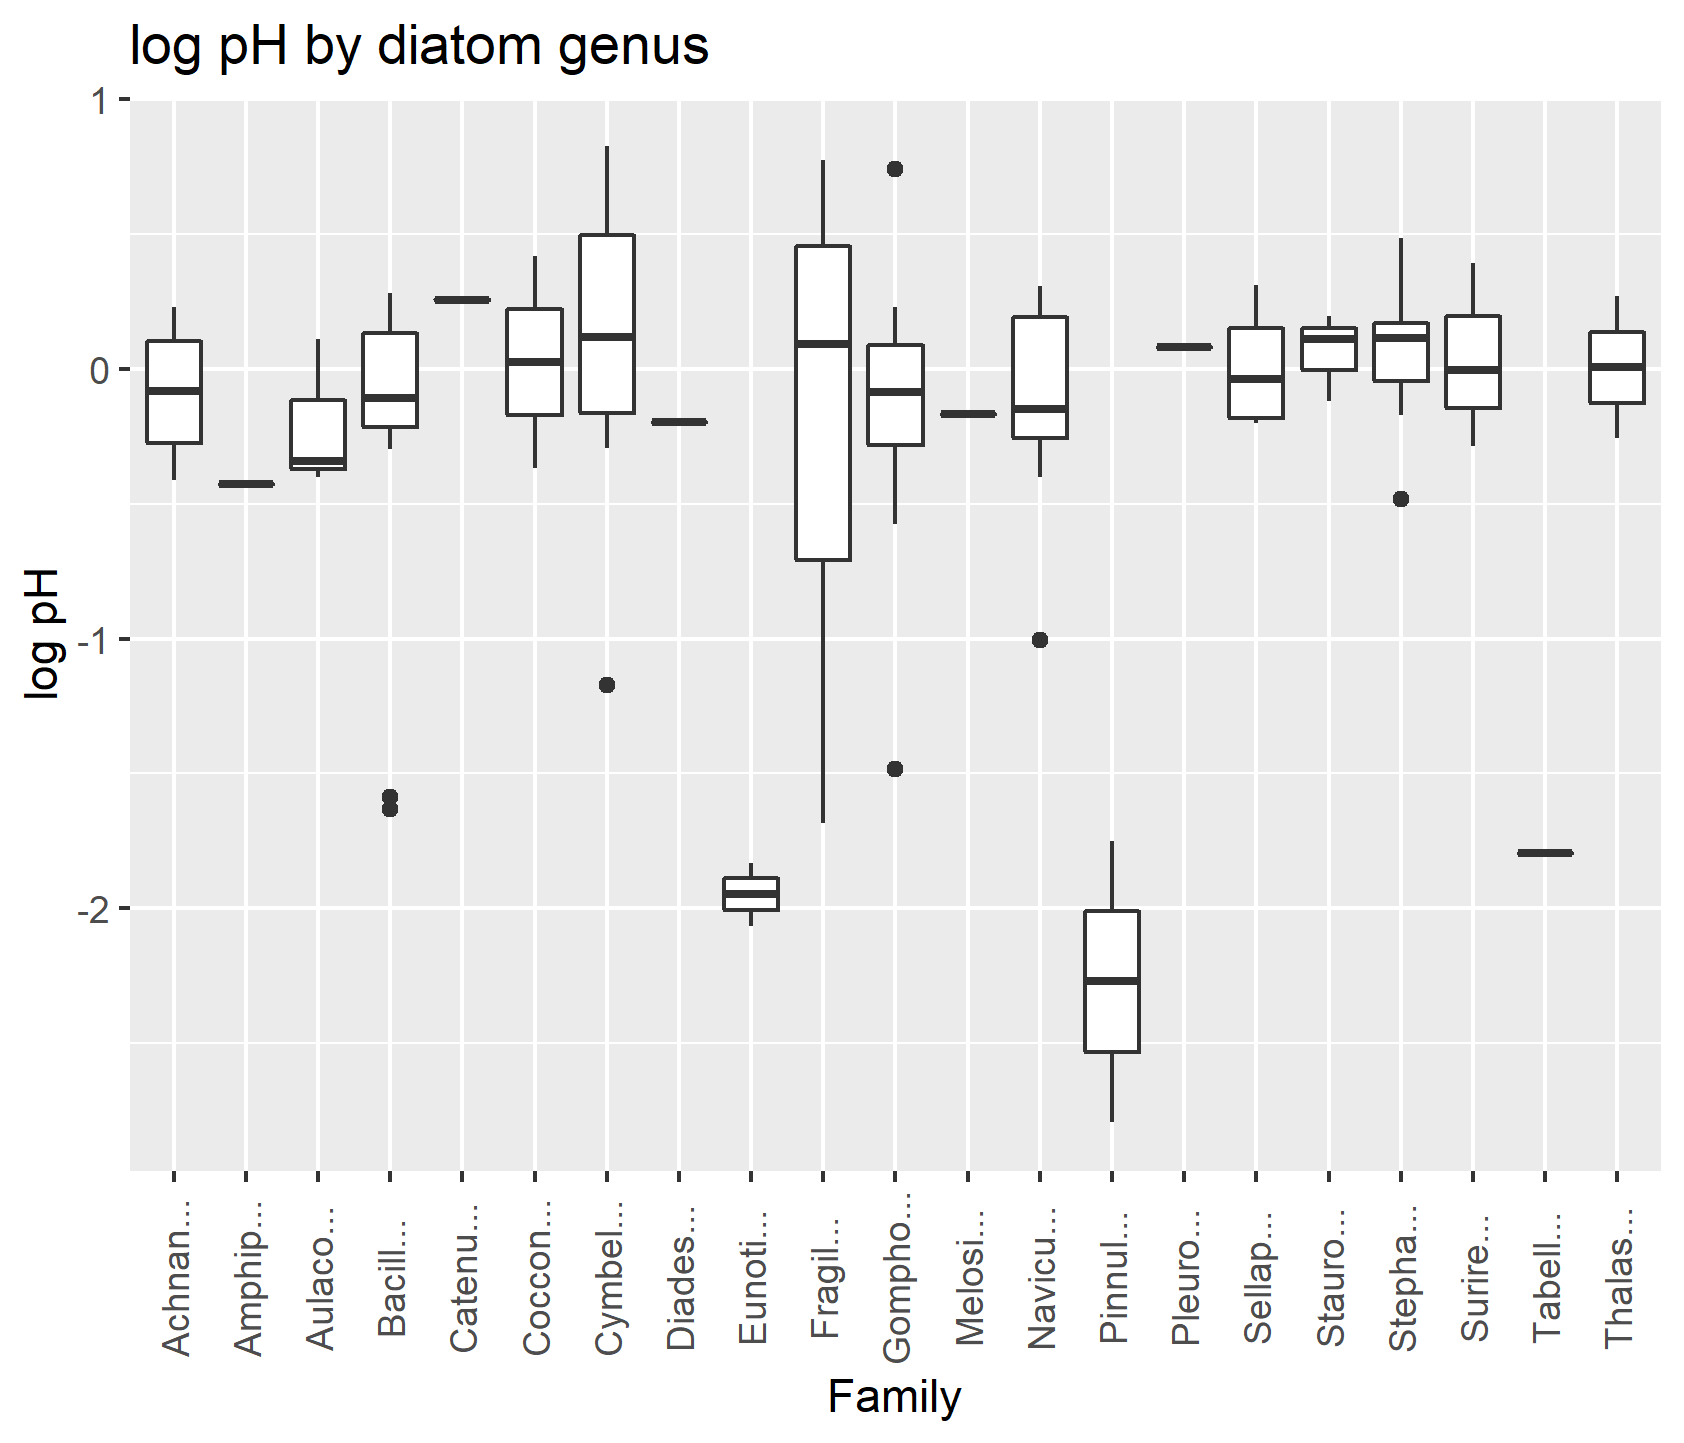
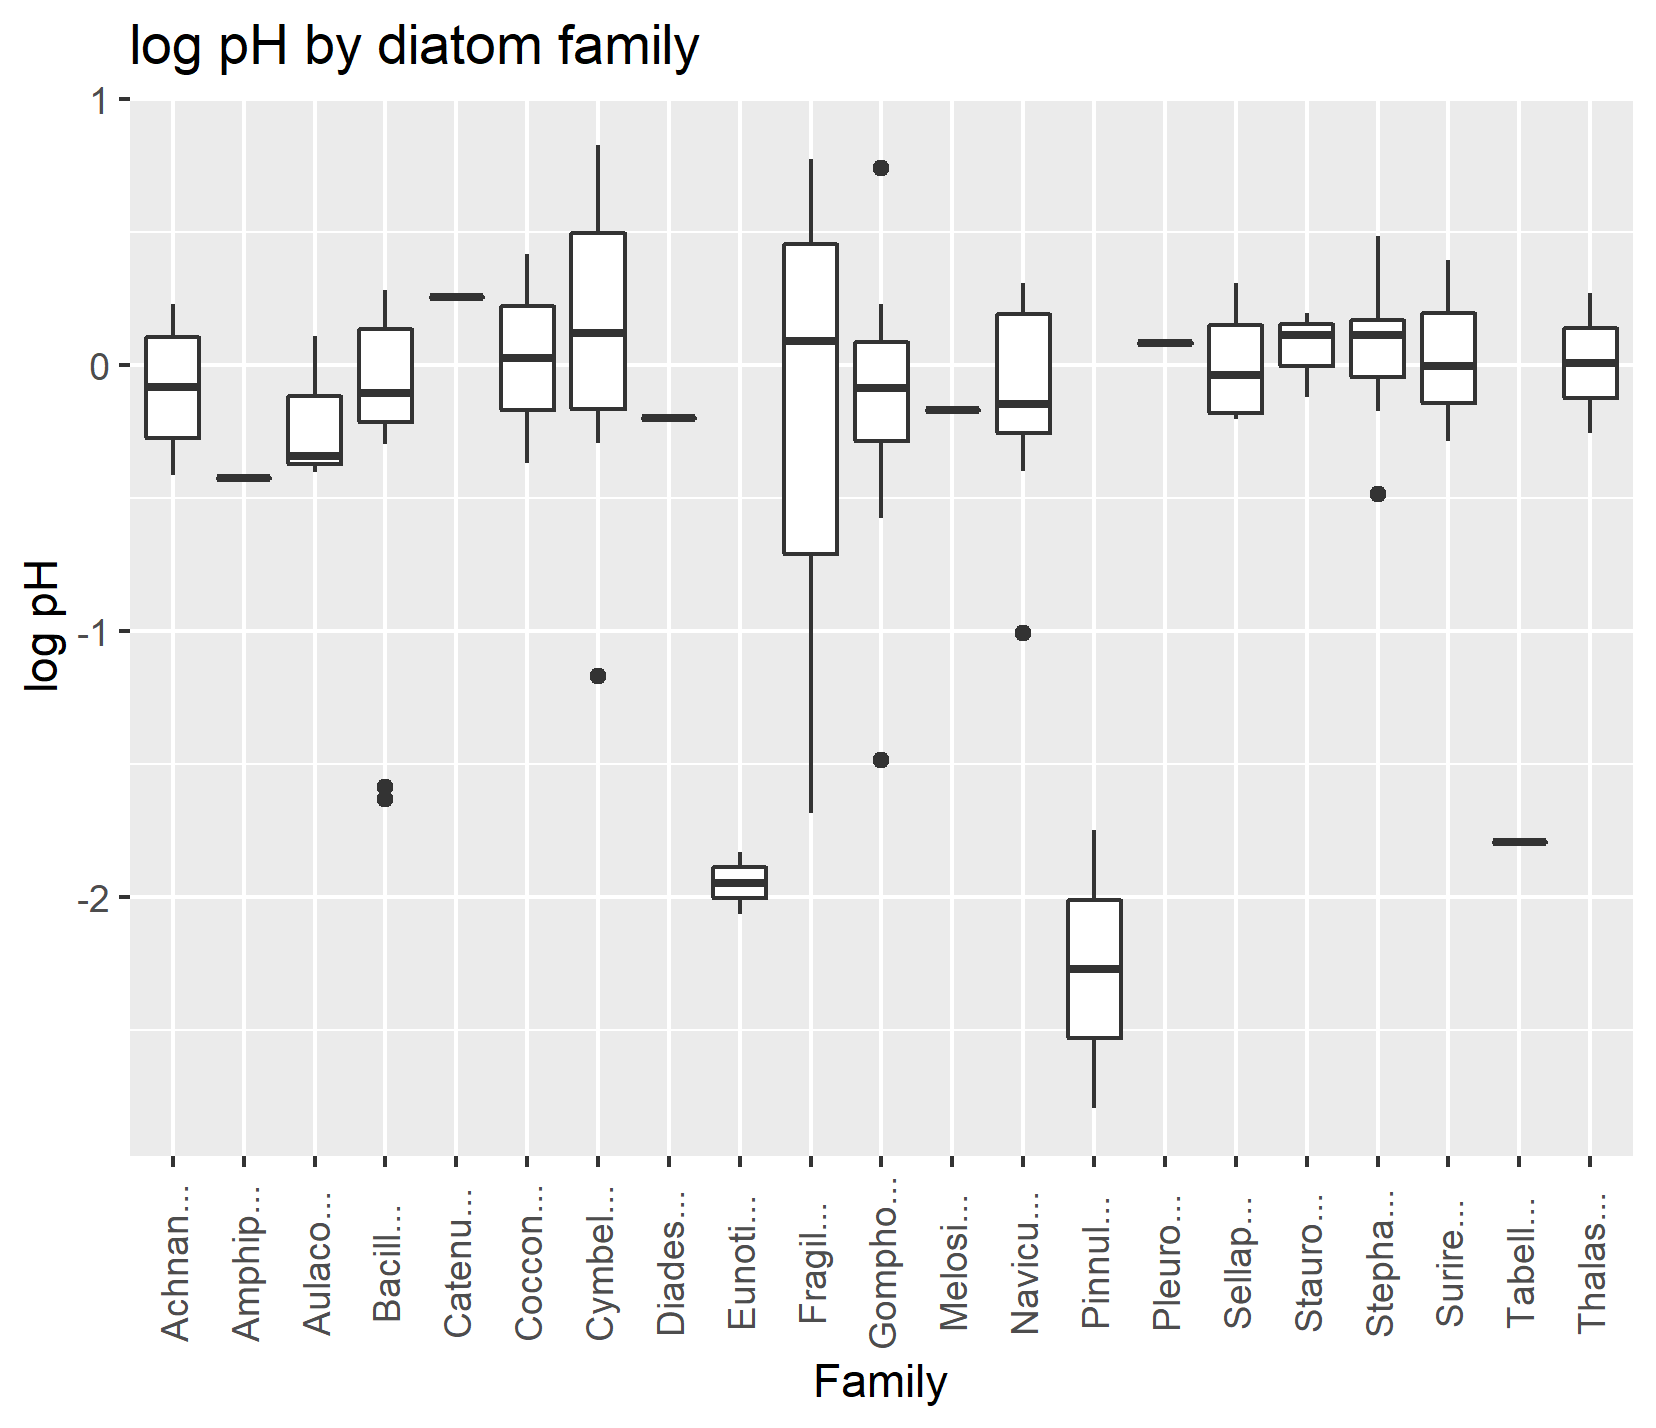
final push

diff --git a/IndProject/README.md b/IndProject/README.md
@@ -1,0 +1,88 @@
+
+# Patterns in freshwater diatom ecology - exploring ecological optima at the family level
+
+#### Kevin Thirouin
+
+<hr>
+
+### 1) How do optimum ecological conditions compare across freshwater diatom families?
+
+### 2) Are family-level differences in optimum conditions significant? Is family identification sufficient to determine general aquatic conditions?
+
+## Introduction
+
+Diatoms are a highly diverse (>75,000 described taxa; Kociolek 2018) lineage of unicellular, photosynthetic eukaryotic algae. They are found in virtually all aquatic environments worldwide, including marine, fresh, and brackish waters, as well as soils (Mann 1999). Diatoms form glass (SiO~2~) cell walls, and produce a highly nutritious lipid photosynthetic product, the latter making them an important and preferred food source for aquatic grazers (Kociolek 2018).
+
+Freshwater diatom diversity is of particular interest because of their use as water quality indicators (Keck 2015). Certain diatom species can be associated with either polluted or pristine waters. The presence or absence of a particular taxon can be invaluable for understanding the conditions of a water source.
+
+This study compares a selection of pre-calculated ecological optima for freshwater diatom families that are considered important bioindicators. These preliminary results could prove useful in developing methods of estimating optimum conditions in which to grow newly discovered/described diatom taxa, and ultimately in determining whether suprageneric identification could be used more readily in estimating environmental conditions in freshwater systems.
+<hr>
+
+## Methods
+
+#### _Data source:_
+
+Data used in this study are originally from:
+**Keck, F., Rimet, F., Franc, A. and Bouchez, A. (2016), Phylogenetic signal in diatom ecology: perspectives for aquatic ecosystems biomonitoring. Ecol Appl, 26: 861-872. doi:[10.1890/14-1966](https://doi.org/10.1890/14-1966)**
+
+The dataset information used in the above publication:
+**Keck, François; Rimet, Frédéric; Franc, Alain; Bouchez, Agnès (2015), Data from: Phylogenetic signal in diatom ecology: perspectives for aquatic ecosystems biomonitoring, Dataset,
+https://doi.org/10.5061/dryad.0db3f**
+
+
+_**Data description and context**_
+
+The original dataset used by Keck et al [(2015)](doi:[10.1890/14-1966](https://doi.org/10.1890/14-1966)) was obtained from the Réseau de Contrôle de Surveillance (RCS), a program in France that functions in similar ways to the United States' National Ecological Observatory Network (NEON). Determining specific RCS protocols on how these data were obtained was difficult due to a language barrier on their [website](https://www.hauts-de-france.developpement-durable.gouv.fr/?RCS-Reseau-de-Controle-de-Surveillance](https://www.hauts-de-france.developpement-durable.gouv.fr/?RCS-Reseau-de-Controle-de-Surveillance)) and that portions of that website were undergoing maintenance at the time of this analysis. The raw RCS data were collected between 2001 and 2008. These data consisted of environmental parameters paired with diatom abundance counts. Keck et al further subset these data into a form that was suitable for phylogenetic analysis, to be accompanied by diatom gene sequence data. The environmental parameter and diatom abundance data were each log-transformed, and ecological optimum values for each taxon was calculated using the weighted-average method (Ter Braak and Looman 1986). These optimum values were combined with gene sequence data to determine if phylogenetic signal exists in diatom ecology. The overall goal of the study was to determine if phylogenetic signal could be found in these data to reduce the need for highly specialized teams of diatomists to identify diatoms at the species level in biomonitoring surveys, and instead use ecological criteria and possibly higher level (and therefore more efficient) taxonomic classifications to make water management decisions.
+
+_**The present analysis**_
+
+Additional data were collected and combined with the above dateset for this analysis, including the addition of a column for family-level taxon identification. These data were obtained from [DiatomBase](diatombase.org), where each genus from the Keck et al dataset was queried and the family name recorded in a [.csv file](https://github.com/kevinthirouin/CompBioLabsAndHomework/blob/master/IndProject/families_genera_filled.csv). This file was imported into R (version 3.6.3) using RStudio (version 1.2.5033), along with the original Keck et al [ecological optima file](https://github.com/kevinthirouin/CompBioLabsAndHomework/blob/master/IndProject/Data_Ecol_Optima_original.csv). Six of the original 19 ecological optima parameters were selected for this analysis, and mean optima values were taken for each diatom genus, and family in the dataset. Plots of each selected ecological optimum by diatom family were produced using ggplot2 from the [tidyverse]((https://www.tidyverse.org/)). These six plots have been combined for ease of visualization using the cowplot package. They can be found [here](https://github.com/kevinthirouin/CompBioLabsAndHomework/blob/master/IndProject/EcoOptPanelPlot.png).
+
+It should be noted that the dataset originally produced by Keck et al [2015](doi:[10.1890/14-1966]) included log-transformed data and subsequent weighted average -- this means that the plots produced are scaled differently than would have been most informative. Back-transforming the data was impossible due to the lack of data provided to undo the weighted average (Keck et al did not provide species abundance data, which is a critical piece of the weighted average equation).
+
+To attempt a statistical analysis that was not riddled with bias or independence errors (to the best of my ability), I further subset the imported data to include only those diatom families which were represented by more than five taxa in the dataset. From that output, a random sample of five taxa from each family was taken, resulting ultimately in a dataframe of five families, each represented by five unique taxa. A one-way ANOVA was run on this new dataframe for each ecological optimum variable. Additionally, a one-way ANOVA was also run for each genus in the same dataset.
+
+Additional plots were developed, the parameters chosen based on the output of the one-way ANOVA. The first [plot](https://github.com/kevinthirouin/CompBioLabsAndHomework/blob/master/IndProject/GenusLevellogNH4.png) shows the optimum levels of NH4 for each genus represented, with each genus colored by family. A [boxplot](https://github.com/kevinthirouin/CompBioLabsAndHomework/blob/master/IndProject/FamilyLevellogNO3_boxplot.png) was produced showing the relationships of the reduced family-level taxon sampling and NO3 values. Finally, an additional [boxplot](https://github.com/kevinthirouin/CompBioLabsAndHomework/blob/master/IndProject/extra_logpH_boxplot.png) was developed as a piece for further discussion (see results and conclusion, below).
+
+## Results and conclusions
+Comparing differences in ecological optima as intended proved to be difficult with this dataset, primarily due to the lack of even taxon sampling at the family-level. However, by utilizing various data manipulation techniques and subsetting the data further to even out the taxa, some of the ANOVAs that were run reported significant differences among families for certain ecological parameters. Those that reported some significant differences include the NO3 optimum values for the five best-represented families, (based on a random sample of five representatives from each family), and the NH4 optima for a genus-level analysis for the same five families. NO3 and NH4 are important in aquatic nitrogen cycling, and important indicators for water quality (particularly pollution by fertilizers and wastewater inputs, (Laws et al 1994; Stevenson & Smol 2015).
+
+Because the main results of this analysis are based largely on a reduced number of taxa from the initial dataset, drawing major conclusions is difficult. However, these data suggest that with more robust sampling across all represented diatom families may lead to a better understanding of which taxa are good indicators of a particular aquatic environment. The implications of this range from freshwater biomonitoring _in situ_ to developing adequate diatom culture media for laboratory analysis with different taxa.
+
+### Additional discussion and parting thoughts
+
+A final piece to discuss stems from the plot below:
+![image](https://github.com/kevinthirouin/CompBioLabsAndHomework/blob/master/IndProject/extra_logpH_boxplot.png)
+
+This is a boxplot of log pH by genus before subsetting the data to more highly represented families. The interesting takeaway from this plot is that outliers present in several families happen to be in families that have recently undergone a great deal of taxonomic upheaval and are likely nonmonophyletic taxa. For instance, The family Cymbellaceae has been reevaluated several times in the last century, and taxa continue to be described based on 19th and early 20th century floras from distant regions (Kociolek 2018). Taxonomic handling continues to be inconsistent even at the family level (da Silva 2016). Similar taxonomic problems have been rampant in large diatom families such as the Naviculaceae (Beszteri et al 2001).
+With further analyses such as this one, and the original investigation by Keck et al (2015), perhaps more attention to ecological conditions will help to solve difficult phylogenetic puzzles. This would help us not only use these taxa to understand our freshwater systems, but also shed some light on evolutionary relationships that have eluded us for so long.  
+
+
+
+
+## References 
+
+Keck, F., Rimet, F., Franc, A. and Bouchez, A. (2016), Phylogenetic signal in diatom ecology: perspectives for aquatic ecosystems biomonitoring. Ecol Appl, 26: 861-872. [doi:10.1890/14-1966](https://esajournals.onlinelibrary.wiley.com/doi/abs/10.1890/14-1966)
+
+Keck, François; Rimet, Frédéric; Franc, Alain; Bouchez, Agnès (2015), Data from: Phylogenetic signal in diatom ecology: perspectives for aquatic ecosystems biomonitoring, Dataset, https://doi.org/10.5061/dryad.0db3f
+
+Beszteri, B., Ács, É., Makk, J., Kovács, G., Márialigeti, K., & Kiss, K. T. (2001). Phylogeny of six naviculoid diatoms based on 18S rDNA sequences. _International Journal of Systematic and Evolutionary Microbiology_. https://doi.org/10.1099/00207713-51-4-1581
+
+da Silva, W. J. (2016). Diatom classification: clarifying the authority for the Cymbellaceae. _Diatom Research_. https://doi.org/10.1080/0269249X.2016.1236757
+
+Kociolek, J. P. (2018). A worldwide listing and biogeography of freshwater diatom genera: a phylogenetic perspective. _Diatom Research_, _33_(4), 509–534. https://doi.org/https://doi.org/10.1080/0269249X.2019.1574243
+
+Laws, E. A., Hiraoka, J., Mura, M., Punu, B., Rust, T., Vink, S., & Yamamura, C. (1994). Impact of land runoff on water quality in an Hawaiian estuary. _Marine Environmental Research_. https://doi.org/10.1016/0141-1136(94)90009-4
+
+Mann, D. G. (1999). The species concept in diatoms. _Phycologia_, _38_(6), 437–495. https://doi.org/10.2216/i0031-8884-38-6-437.1
+
+Stevenson, R. J., & Smol, J. P. (2015). _Use of Algae in Ecological Assessments_. _Freshwater Algae of North America: Ecology and Classification_. Elsevier Inc. https://doi.org/10.1016/B978-0-12-385876-4.00021-9
+
+ter Braak, C. J. F., & Looman, C. W. N. (1986). Weighted averaging, logistic regression and the Gaussian response model. _Vegetatio_. https://doi.org/10.1007/BF00032121
+
+
+
+KOCIOLEK J.P., BALASUBRAMANIAN K., BLANCO S., COSTE M., ECTOR L., LIU Y., KULIKOVSKIY M., LUNDHOLM N., LUDWIG T., POTAPOVA M., RIMET F., SABBE K., SALA S., SAR E., TAYLOR J., VAN DE VIJVER B., WETZEL C.E., WILLIAMS D.M., WITKOWSKI A. & WITKOWSKI J. 2018. DiatomBase. Available from: [http://www.diatombase.org](http://www.diatombase.org)
+
+
+> Written with [StackEdit](https://stackedit.io/).
